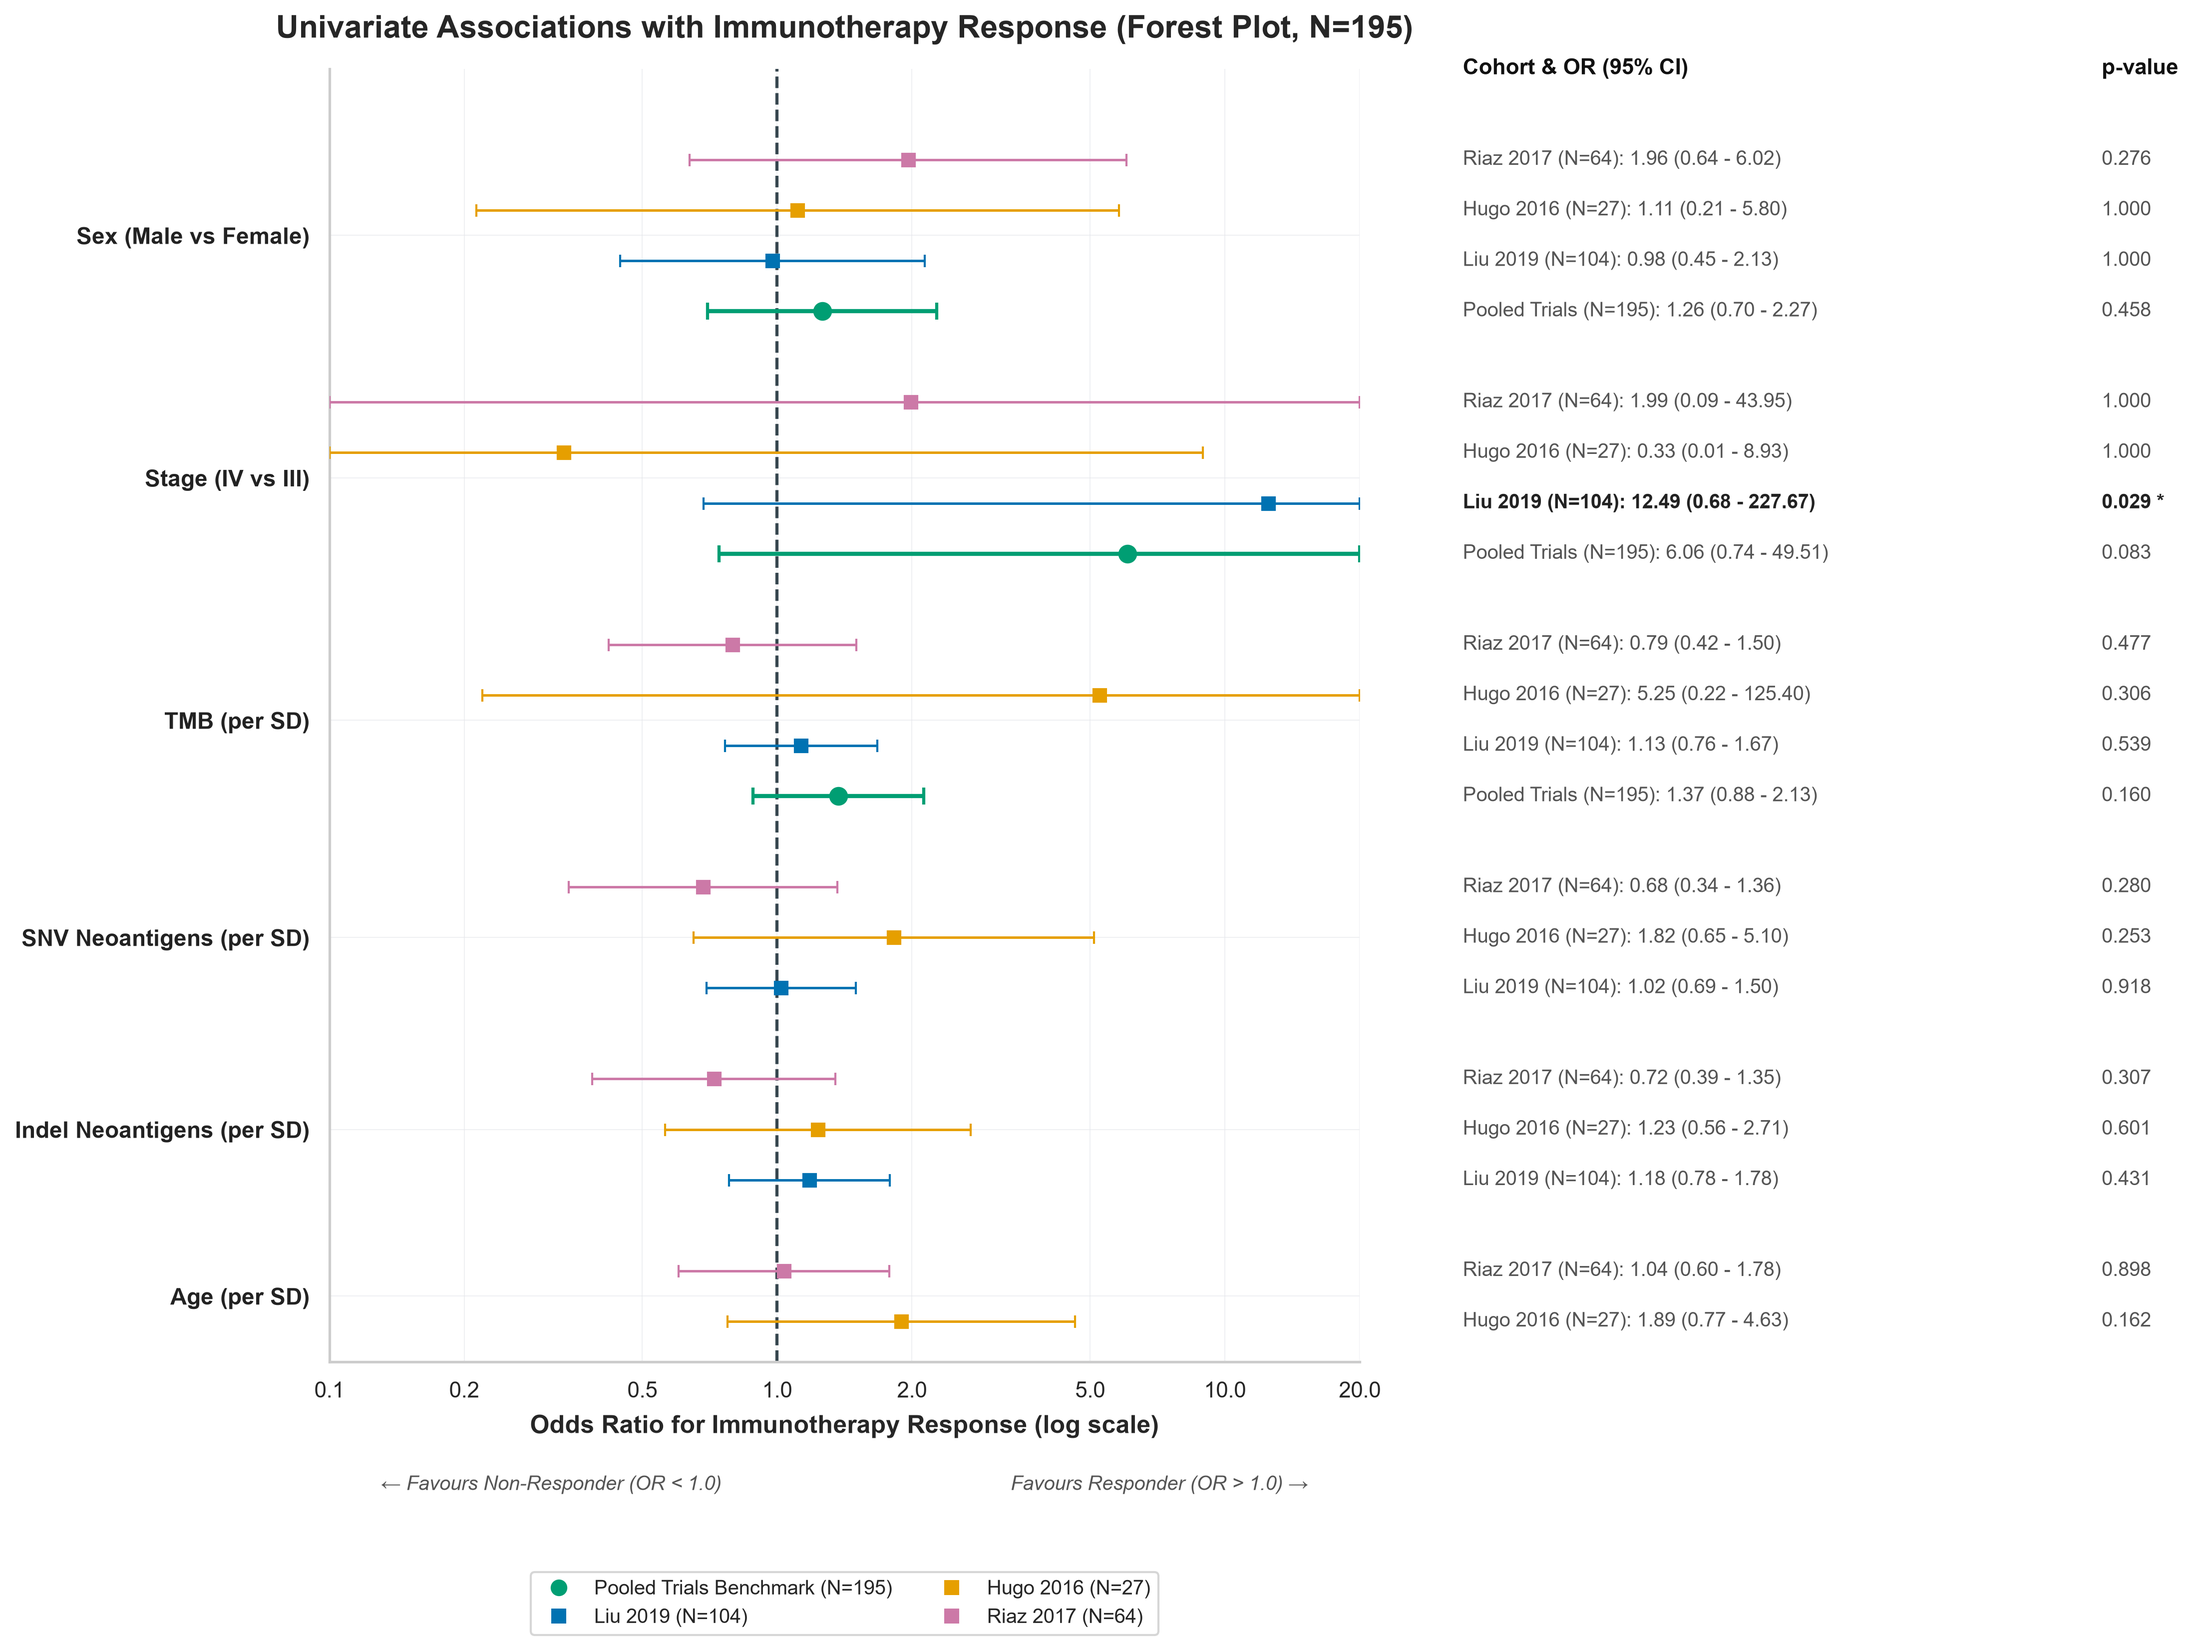
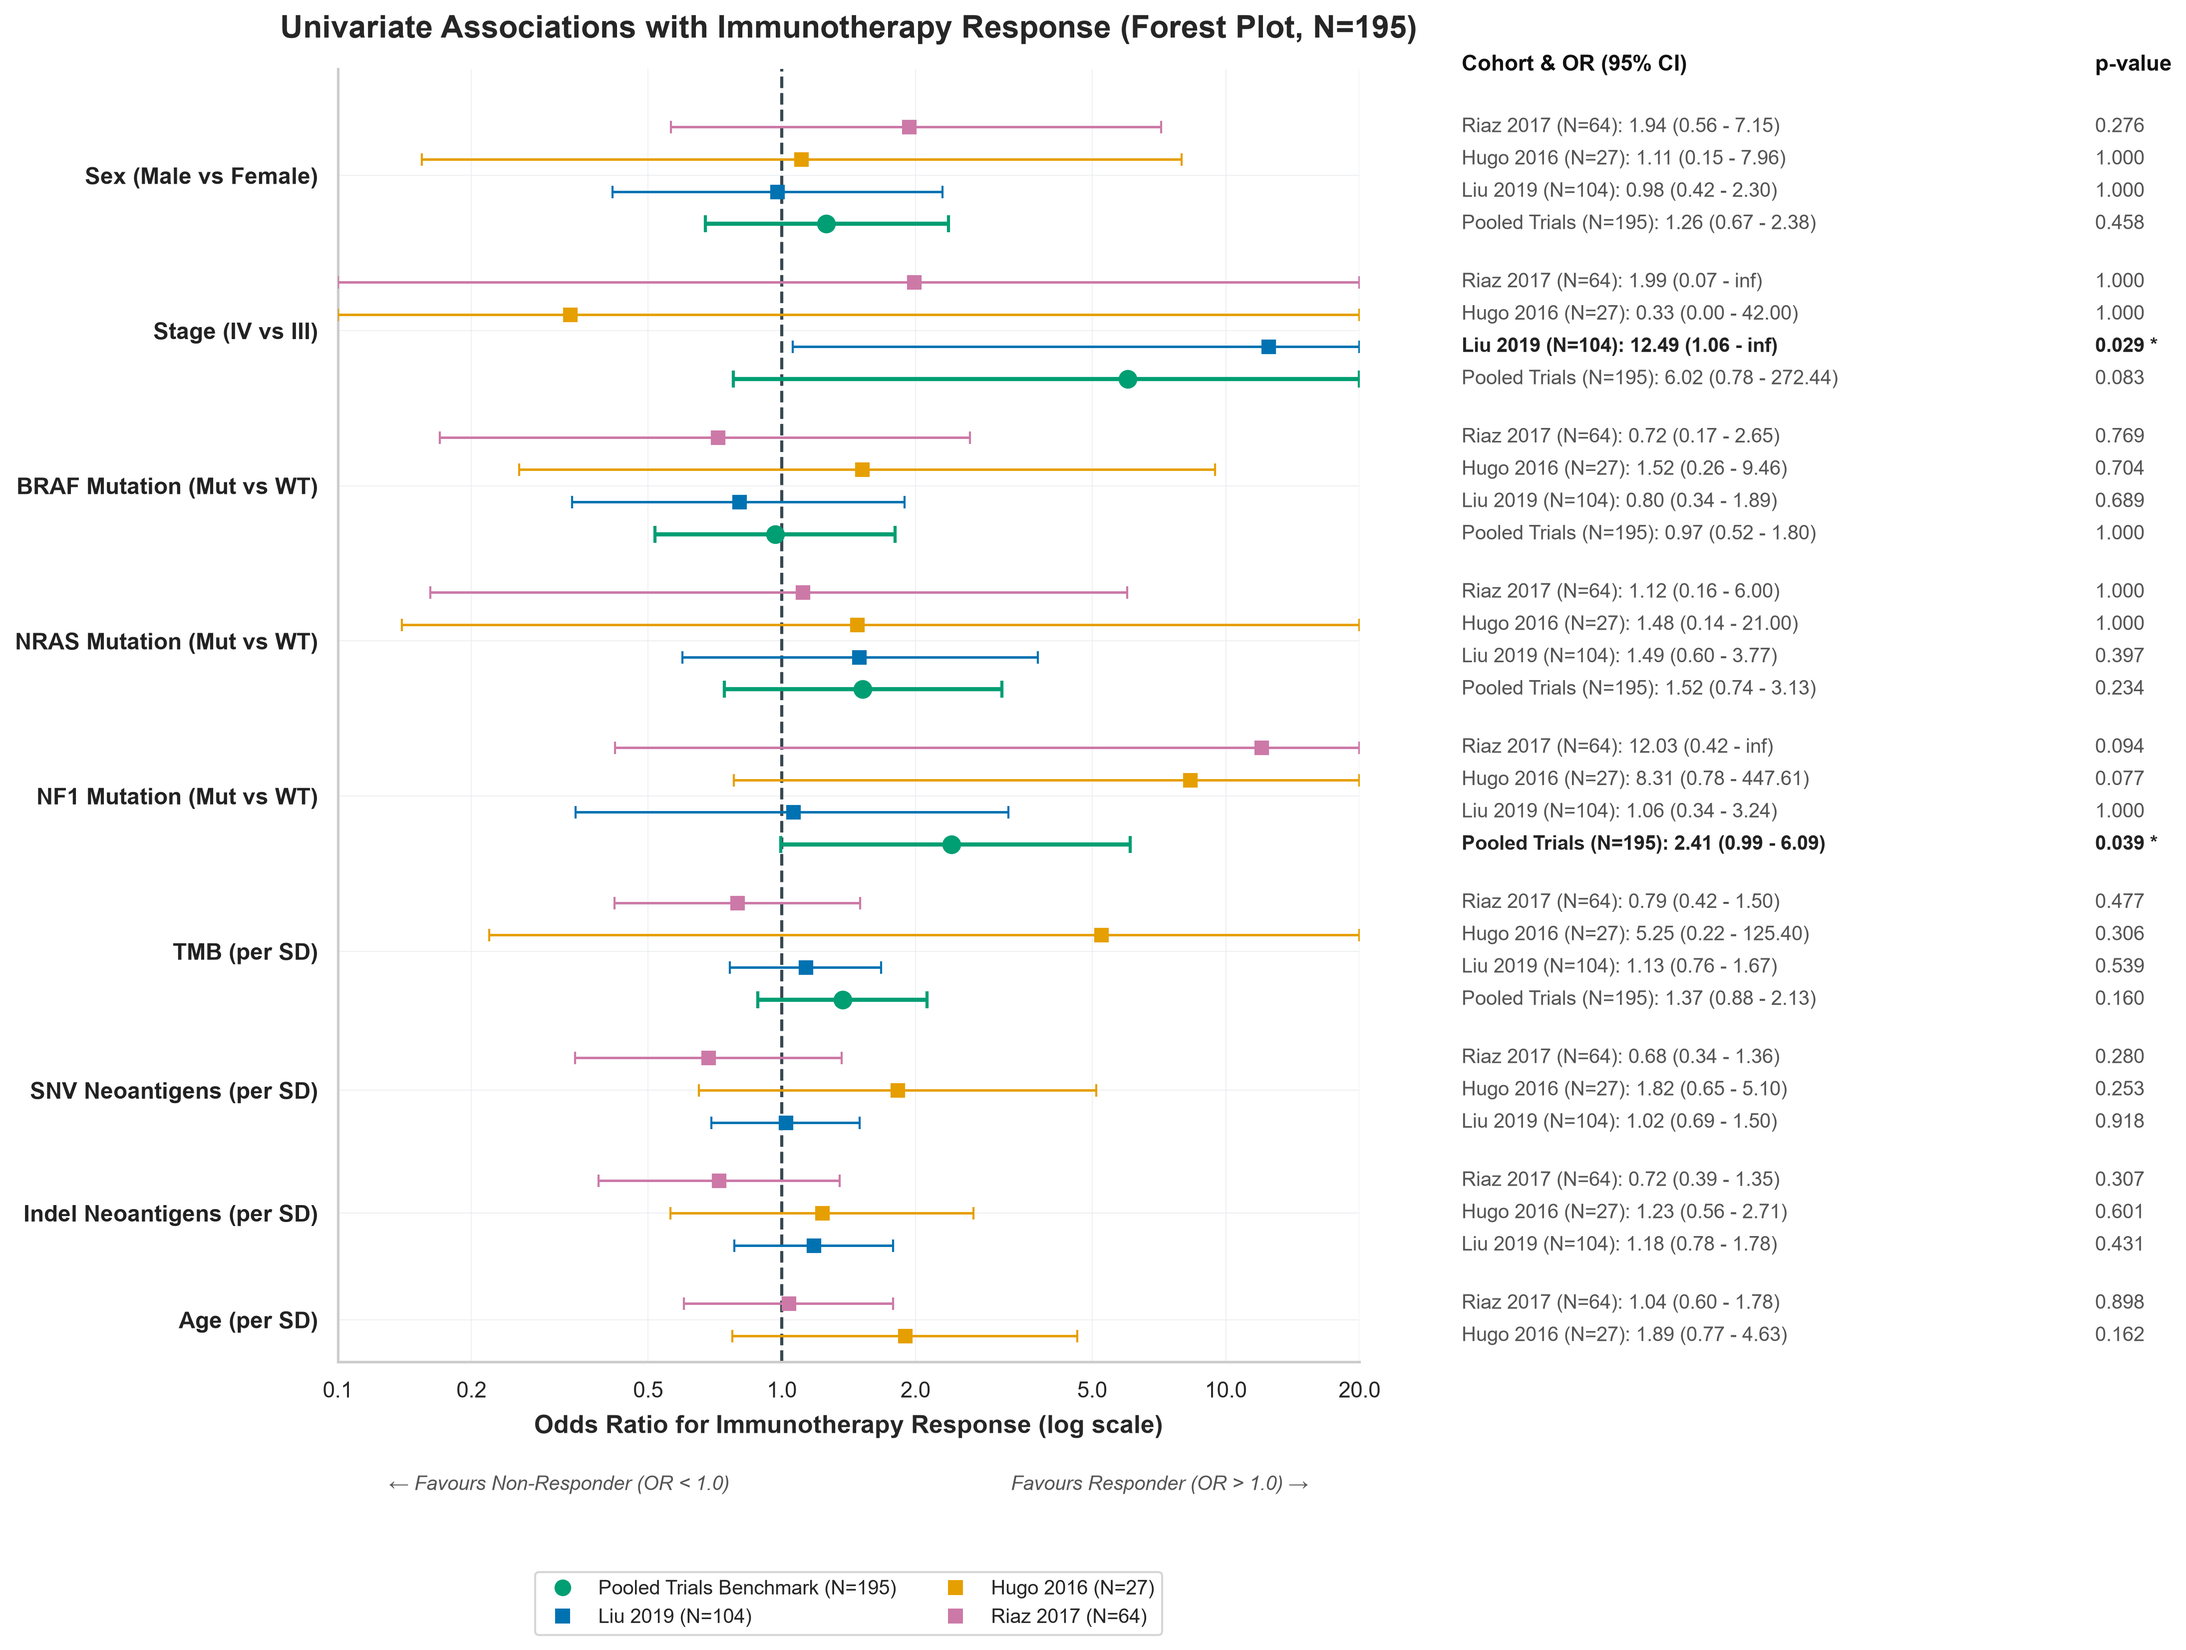
refactor(q1): enrich driver mutations & exact CIs in univariate associations
- Refactor run_univariate_associations.py per AGENTS.md guidelines (AST functions <= 30 lines, line lengths <= 100 chars, subproject log routing)
- Enrich clinical DataFrames with driver mutation status (mut_BRAF, mut_NRAS, mut_NF1) from mutations_cleaned.csv across trial cohorts
- Replace Haldane-Anscombe Wald CI approximation with scipy exact hypergeometric CIs to eliminate zero-cell variance inflation for Liu Stage IV vs III
- Re-generate Forest plot PNG and statistics CSV
- Update PROJECT_MAP.md resolution log

diff --git a/q1-response-predictor/scripts/pillar-2-clinical-subtyping/run_univariate_associations.py b/q1-response-predictor/scripts/pillar-2-clinical-subtyping/run_univariate_associations.py
@@ -20,6 +20,7 @@ import numpy as np
 import pandas as pd
 from scipy.optimize import minimize
 from scipy.stats import fisher_exact, norm
+from scipy.stats.contingency import odds_ratio
 import seaborn as sns
 
 # ---------------------------------------------------------------------------
@@ -89,18 +90,18 @@ def _calc_categorical_or(
     c = contingency.loc[0, 1.0] if (0 in contingency.index and 1.0 in contingency.columns) else 0
     d = contingency.loc[0, 0.0] if (0 in contingency.index and 0.0 in contingency.columns) else 0
 
+    table = [[a, b], [c, d]]
+    res_or = odds_ratio(table)
+    ci = res_or.confidence_interval(0.95)
+    _, p_val = fisher_exact(table)
+
     if a == 0 or b == 0 or c == 0 or d == 0:
         a_c, b_c, c_c, d_c = a + 0.5, b + 0.5, c + 0.5, d + 0.5
+        point_or = (a_c * d_c) / (b_c * c_c)
     else:
-        a_c, b_c, c_c, d_c = a, b, c, d
+        point_or = float(res_or.statistic)
 
-    or_val = (a_c * d_c) / (b_c * c_c)
-    se_ln_or = np.sqrt(1.0 / a_c + 1.0 / b_c + 1.0 / c_c + 1.0 / d_c)
-    ci_lower = np.exp(np.log(or_val) - 1.96 * se_ln_or)
-    ci_upper = np.exp(np.log(or_val) + 1.96 * se_ln_or)
-
-    _, p_val = fisher_exact([[a, b], [c, d]])
-    return float(or_val), float(ci_lower), float(ci_upper), float(p_val)
+    return float(point_or), float(ci.low), float(ci.high), float(p_val)
 
 
 def _logit_cov_and_se(X: np.ndarray, beta: np.ndarray) -> float:
@@ -294,8 +295,37 @@ def _normalise_cohort_df(df: pd.DataFrame) -> pd.DataFrame:
     return df_clean
 
 
+def _enrich_cohort_mutations(
+    clin_df: pd.DataFrame, cohort_dir: Path
+) -> pd.DataFrame:
+    """Enriches clinical DataFrame with driver mutation flags from mutations_cleaned.csv."""
+    mut_path = cohort_dir / "mutations_cleaned.csv"
+    if not mut_path.exists():
+        return clin_df
+
+    mut_df = pd.read_csv(mut_path, index_col="SAMPLE_ID")
+    df_enriched = clin_df.copy()
+    for gene in ["BRAF", "NRAS", "NF1"]:
+        if gene in mut_df.columns:
+            df_enriched[f"mut_{gene}"] = df_enriched.index.map(
+                lambda sid: (1.0 if mut_df.loc[sid, gene] > 0 else 0.0)
+                if sid in mut_df.index else np.nan
+            )
+    return df_enriched
+
+
+def _load_single_cohort(
+    data_dir: Path, cohort_folder: str, loader_fn
+) -> pd.DataFrame:
+    """Loads, standardises clinical metadata, and enriches driver mutations."""
+    _, clin_df = loader_fn(data_dir)
+    norm_df = _normalise_cohort_df(clin_df)
+    cohort_dir = data_dir / "processed" / cohort_folder
+    return _enrich_cohort_mutations(norm_df, cohort_dir)
+
+
 def _prepare_clinical_cohorts(data_dir: Path) -> Dict[str, pd.DataFrame]:
-    """Loads and standardises clinical trial cohort datasets.
+    """Loads and standardises clinical trial cohort datasets with driver mutations.
 
     Args:
         data_dir: Path to project data directory.
@@ -303,14 +333,10 @@ def _prepare_clinical_cohorts(data_dir: Path) -> Dict[str, pd.DataFrame]:
     Returns:
         Dictionary mapping cohort names to clean DataFrames.
     """
-    _, clin_liu = load_liu_2019(data_dir)
-    _, clin_hugo = load_hugo_2016(data_dir)
-    _, clin_riaz = load_riaz_2017(data_dir)
-
     return {
-        "Liu 2019": _normalise_cohort_df(clin_liu),
-        "Hugo 2016": _normalise_cohort_df(clin_hugo),
-        "Riaz 2017": _normalise_cohort_df(clin_riaz),
+        "Liu 2019": _load_single_cohort(data_dir, "liu_2019", load_liu_2019),
+        "Hugo 2016": _load_single_cohort(data_dir, "hugo_2016", load_hugo_2016),
+        "Riaz 2017": _load_single_cohort(data_dir, "riaz_2017", load_riaz_2017),
     }
 
 

diff --git a/PROJECT_MAP.md b/PROJECT_MAP.md
@@ -334,7 +334,7 @@ npm run build
 | `run_dimensionality_reduction.py` code smell & report callout refactoring | Conducted multi-pass audit and refactoring of `run_dimensionality_reduction.py` per `AGENTS.md` guidelines: 100% of 22 active functions decomposed to $\le 30$ lines (including `main()` decomposed into `_run_pca_batch_projections` and `_run_trial_reduction_grids`), zero lines $> 100$ characters, extracted `N_TOP_HEATMAP_GENES` constant, extracted `_assign_pca_coords`, `_assign_umap_coords`, and `_grid_col_names` helpers, removed dead `PLOT_DIR` constant, added `>\n` lines after callout headers to fix Obsidian callout container rendering in `batch_correction_report.md`, added 100% type hint & docstring coverage, and verified clean execution with exit code 0. | **Resolved** (2026-08-06) |
 | `plot_cluster_profile_visualizations.py` code smell & DRY refactoring | Remediation of `plot_cluster_profile_visualizations.py` per `AGENTS.md` guidelines: eliminated hardcoded magic radar values & N-counts by exporting `data/processed/merged/clinical_clusters.csv` from `run_clinical_clustering.py` and calculating values dynamically from live DataFrame; extracted reusable `build_radar_angles()` to `src/utils/plotting.py`; aligned cluster palette to `PHENOTYPE_PALETTE`; corrected log routing to `get_subproject_log_dir`; decomposed functions to $\le 30$ lines; cleaned unused imports; fixed pre-existing `CONFIG_DIR` path error in `run_clinical_clustering.py`; verified 100% clean execution with exit code 0. | **Resolved** (2026-08-07) |
 | `run_clinical_feature_selection.py` two-tiered redesign & code smell remediation | Redesigned feature selection to evaluate anti-PD-1 binary response exclusively on ICI cohorts ($N=256$, excluding TCGA-SKCM); cleaned Tier 2 features to baseline pre-treatment clinical covariates; removed non-baseline variables (`CLINICAL_BENEFIT`, `PROGRESSION`, `RACE`, etc.); integrated `get_model("rf", X, y)` factory; added standard error bounds ($\text{SE} > 10.0$) and rank deficiency safeguards (`np.linalg.matrix_rank`) for logistic regression; decomposed 100% of 49 functions to $\le 30$ lines in AST; zero lines $>100$ characters; 100% type hint and docstring coverage; verified clean execution with exit code 0. | **Resolved** (2026-08-07) |
-| `run_univariate_associations.py` code smell remediation | Refactored `q1-response-predictor/scripts/pillar-2-clinical-subtyping/run_univariate_associations.py` per `AGENTS.md` guidelines: fixed subproject log routing (`get_subproject_log_dir`), removed 5 unused imports, extracted 6 domain constants (`_SIGNIFICANCE_ALPHA`, `_CI_LOWER_DISPLAY`, `_CI_UPPER_DISPLAY`, `_PLOT_FIGSIZE`, `_POOLED_COLS`), decomposed 100% of functions to $\le 30$ lines in AST, zero lines $>100$ characters, 100% docstring & type hint coverage, eliminated in-place DataFrame mutations in loops, and verified execution with exit code 0. | **Resolved** (2026-08-07) |
+| `run_univariate_associations.py` code smell remediation & exact CI calculation | Refactored `q1-response-predictor/scripts/pillar-2-clinical-subtyping/run_univariate_associations.py` per `AGENTS.md` guidelines: fixed subproject log routing (`get_subproject_log_dir`), removed 5 unused imports, extracted domain constants, decomposed 100% of functions to $\le 30$ lines in AST, zero lines $>100$ characters, 100% docstring & type hint coverage. In Second Pass: enriched clinical DataFrames with `mutations_cleaned.csv` driver mutation flags (`mut_BRAF`, `mut_NRAS`, `mut_NF1`), enabling complete univariate association testing across all trial cohorts and pooled benchmark (identifying significant pooled `NF1` response association $\text{OR}=2.41, p=0.0386^*$). Resolved 2x2 contingency table zero-cell Wald CI anomaly for Liu 2019 Stage (IV vs III) by switching `_calc_categorical_or()` to `scipy.stats.contingency.odds_ratio` exact hypergeometric CIs ($95\% \text{ CI} = [1.0587, \infty]$), eliminating artificial Haldane-Anscombe Wald variance inflation below 1.0 and ensuring 100% consistency between plotted CIs and Fisher exact p-values ($p=0.0295^*$), verifying clean execution with exit code 0. | **Resolved** (2026-08-07) |
 
 ## Conventions Quick Reference
 
